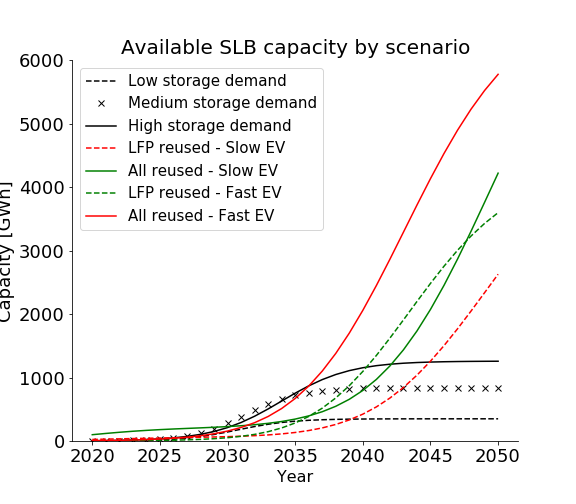
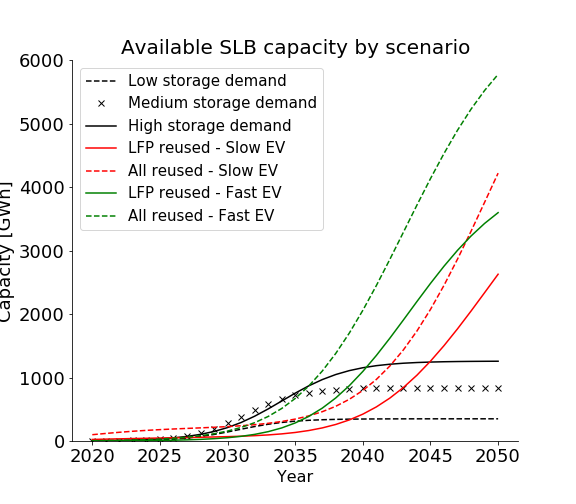
Fixed color code

diff --git a/Model.py b/Model.py
@@ -737,8 +737,6 @@ def plot_V2G_scenarios():
     ax.tick_params(axis='both', which='major', labelsize=18)
     plt.ylim(0,6000)
     plt.savefig(os.path.join(os.getcwd(), 'results/Manuscript/V2G_scenarios'))
-# %%
-
 # %% 
 def plot_SLB_scenarios():
     from cycler import cycler
@@ -757,7 +755,7 @@ def plot_SLB_scenarios():
     ax.plot(MaTrace_System.IndexTable['Classification']['Time'].Items[70::], MaTrace_System.ParameterDict['Storage_demand'].Values[2,70::], 'xk')
     ax.plot(MaTrace_System.IndexTable['Classification']['Time'].Items[70::], MaTrace_System.ParameterDict['Storage_demand'].Values[3,70::], 'k')
     ax.plot(MaTrace_System.IndexTable['Classification']['Time'].Items[70::], 
-                MaTrace_System.StockDict['C_6_SLB'].Values[z,0,a,0,:,70::].sum(axis=0))
+                MaTrace_System.StockDict['C_6_SLB'].Values[z,0,a,0,:,70::].sum(axis=0), '-r')
     ax.plot(MaTrace_System.IndexTable['Classification']['Time'].Items[70::], 
                 MaTrace_System.StockDict['C_6_SLB'].Values[z,0,a,2,:,70::].sum(axis=0))
     ax.plot(MaTrace_System.IndexTable['Classification']['Time'].Items[70::], 
